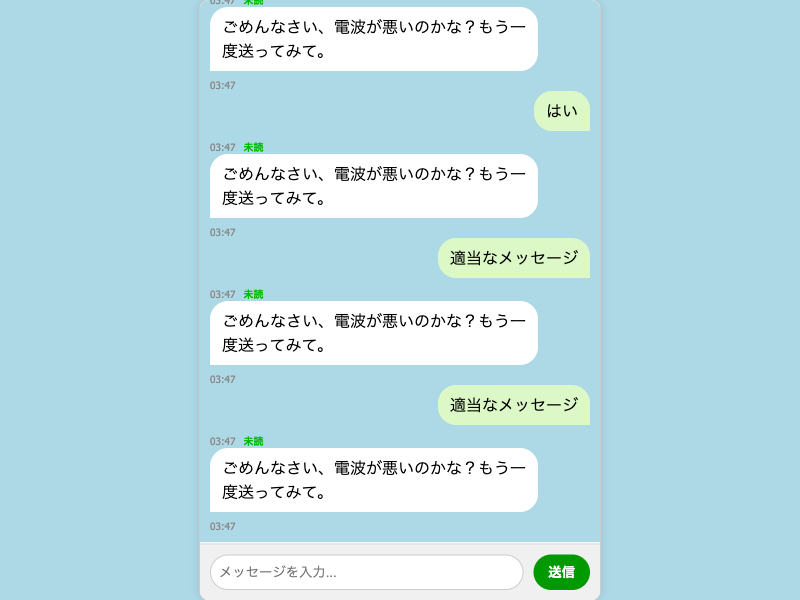
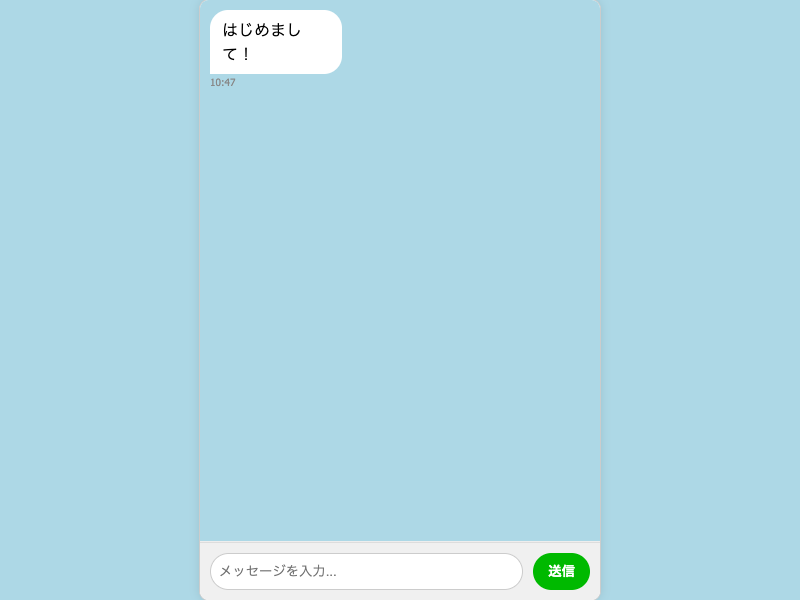
feat: v1.0 release and documentation

Changed region(s): [[0.25, 0.24, 0.75, 0.99], [0.25, 0.0, 0.6875, 0.15], [0.6562, 0.15, 0.75, 0.24]]

diff --git a/style.css b/style.css
@@ -61,55 +61,58 @@ body {
 
 .message {
     margin-bottom: 8px;
-    display: flex;
-    align-items: flex-end; /* タイムスタンプと既読マークを下に配置 */
+    display: block; /* Remove flex behavior from message */
 }
 
 .user-message {
-    display: flex; /* flexコンテナとして維持 */
-    flex-direction: column; /* 縦方向に並べる */
-    align-items: flex-end; /* 右寄せ */
-    margin-left: auto; /* 親要素内で右寄せ */
-}
-
-.user-message span {
-    background-color: #DCF8C6; /* LINEの自分の吹き出し色 */
-    padding: 8px 12px;
-    border-radius: 18px 18px 0 18px; /* 吹き出しの形をより丸く */
-    word-wrap: break-word;
-    max-width: 80%; /* 吹き出しの最大幅 */
+    text-align: right; /* Align the whole message block to the right */
 }
 
 .girl-message {
-    display: flex; /* flexコンテナとして維持 */
-    flex-direction: column; /* 縦方向に並べる */
-    align-items: flex-start; /* 左寄せ */
-    margin-right: auto; /* 親要素内で左寄せ */
+    text-align: left; /* Align the whole message block to the left */
 }
 
-.girl-message span {
-    background-color: #fff; /* LINEの相手の吹き出し色 */
+.message-content-wrapper {
+    display: inline-flex;
+    flex-direction: column;
+}
+
+.user-message .message-content-wrapper {
+    align-self: flex-end; /* Align to the right within .message */
+}
+
+.girl-message .message-content-wrapper {
+    align-self: flex-start; /* Align to the left within .message */
+}
+
+.message-bubble {
     padding: 8px 12px;
-    border-radius: 18px 18px 18px 0; /* 吹き出しの形をより丸く */
     word-wrap: break-word;
-    max-width: 80%; /* 吹き出しの最大幅 */
+    max-width: 80%;
+}
+
+.user-message .message-bubble {
+    background-color: #DCF8C6; /* LINEの自分の吹き出し色 */
+    border-radius: 18px 18px 0 18px; /* 吹き出しの形をより丸く */
+}
+
+.girl-message .message-bubble {
+    background-color: #fff; /* LINEの相手の吹き出し色 */
+    border-radius: 18px 18px 18px 0; /* 吹き出しの形をより丸く */
 }
 
 .message-info {
-    font-size: 0.6em; /* さらに小さく */
+    font-size: 0.6em;
     color: #888;
-    margin-top: 2px; /* 吹き出しとの間隔 */
-    /* margin-right: 12px; */ /* 吹き出しの右端に合わせる */
-    white-space: nowrap; /* 折り返しを防ぐ */
+    white-space: nowrap;
+    display: flex;
+    margin-top: 2px; /* Space between bubble and info */
 }
 
 .user-message .message-info {
-    order: unset; /* orderをリセット */
-    margin-right: 12px; /* 吹き出しの右端に合わせる */
+    justify-content: flex-end; /* Align content to the right */
 }
 
-.read-status {
-    font-weight: bold;
-    color: #00b900; /* 既読マークの色 */
-    margin-left: 5px;
+.girl-message .message-info {
+    justify-content: flex-start; /* Align content to the left */
 }

diff --git a/test.js b/test.js
@@ -10,36 +10,61 @@ const path = require('path');
     });
     const page = await browser.newPage();
 
-    await page.goto(`http://localhost:8080/`);
+    await page.goto(`http://localhost:8080/`, { waitUntil: 'networkidle0' }); // ネットワークアイドルまで待機
 
-    // 初期メッセージが表示されるのを待つ
-    await new Promise(resolve => setTimeout(resolve, 1000));
+    // ページが完全にロードされ、入力フィールドが表示されるのを待つ
+    await page.waitForSelector('#user-input', { visible: true, timeout: 30000 });
 
     const messagesToSend = [
         'はじめまして！',
         '可愛いね！',
-        '趣味は何？'
+        '趣味は何？',
+        '今度ご飯行かない？',
+        'タイプだよ',
+        '元気？',
+        '愛してる',
+        'はい',
+        '適当なメッセージ',
+        '適当なメッセージ'
     ];
 
     for (const msg of messagesToSend) {
         // メッセージを入力
-        await page.type('#user-input', msg);
+        const inputElement = await page.$('#user-input');
+        if (inputElement) {
+            await inputElement.type(msg);
+        } else {
+            console.error('#user-input element not found.');
+            break;
+        }
 
         // 送信ボタンをクリック
-        await page.click('#send-button');
+        const sendButton = await page.$('#send-button');
+        if (sendButton) {
+            await sendButton.click();
+        } else {
+            console.error('#send-button element not found.');
+            break;
+        }
 
         // LLMからの応答と好感度の変化を待つため、長めに待機
-        await new Promise(resolve => setTimeout(resolve, 3000));
+        await new Promise(resolve => setTimeout(resolve, 5000)); // 5秒に延長
 
         // 次の入力までの間隔
         await new Promise(resolve => setTimeout(resolve, 1000));
     }
 
+    // ゲーム終了のalertが表示されるのを待って閉じる
+    page.on('dialog', async dialog => {
+        console.log(`Alert message: ${dialog.message()}`);
+        await dialog.accept();
+    });
+
     // すべての操作が完了した後にスクリーンショットを撮る
-    await page.screenshot({ path: 'screenshot_timestamp_readstatus.png' });
+    await page.screenshot({ path: 'screenshot_final_demo.png' });
 
     // ブラウザを閉じる
     await browser.close();
 
-    console.log('デモンストレーションが完了し、screenshot_timestamp_readstatus.png に結果を保存しました。');
+    console.log('デモンストレーションが完了し、screenshot_final_demo.png に結果を保存しました。');
 })();

diff --git a/script.js b/script.js
@@ -27,11 +27,15 @@ function addMessage(message, sender) {
     const time = getCurrentTime();
     let messageHtml = `
         <div class="message ${sender}-message">
-            <span>${message}</span>
-        </div>
-        <div class="message-info">
-            <span class="timestamp">${time}</span>
-            ${sender === 'user' ? '<span class="read-status">未読</span>' : ''}
+            <div class="message-content-wrapper">
+                <div class="message-bubble">
+                    <span>${message}</span>
+                </div>
+                <div class="message-meta message-info">
+                    <span class="timestamp">${time}</span>
+                    ${sender === 'user' ? '<span class="read-status">未読</span>' : ''}
+                </div>
+            </div>
         </div>
     `;
 
@@ -68,7 +72,7 @@ function handleUserInput() {
             addMessage(girlMessage, 'girl'); // ここを'girl'に変更
 
             // 直前のユーザーメッセージに既読マークを付ける
-            const lastUserMessageInfo = chatLog.querySelector('.user-message:last-child .message-info .read-status');
+            const lastUserMessageInfo = chatLog.querySelector('.user-message .message-meta .read-status');
             if (lastUserMessageInfo) {
                 lastUserMessageInfo.innerText = '既読';
             }

diff --git a/take_screenshot.js b/take_screenshot.js
@@ -1,0 +1,21 @@
+const puppeteer = require('puppeteer');
+
+(async () => {
+    const browser = await puppeteer.launch({
+        executablePath: '/Applications/Google Chrome.app/Contents/MacOS/Google Chrome',
+        headless: true, // ヘッドレスモードで実行
+        args: ['--no-sandbox', '--disable-setuid-sandbox']
+    });
+    const page = await browser.newPage();
+
+    await page.goto(`http://localhost:8080/`, { waitUntil: 'networkidle0' });
+
+    // ページが完全にロードされるのを待つ
+    await new Promise(resolve => setTimeout(resolve, 2000));
+
+    await page.screenshot({ path: 'screenshot_final_demo.png' });
+
+    await browser.close();
+
+    console.log('スクリーンショットを撮影しました: screenshot_final_demo.png');
+})();

diff --git a/docs/v1.0_spec.md b/docs/v1.0_spec.md
@@ -1,0 +1,64 @@
+# v1.0 仕様書
+
+## 1. 概要
+
+本ドキュメントは、LINE風チャット恋愛シミュレーションゲーム「LINEで彼女を落とせ！」のv1.0における機能、デザイン、および技術的な側面を定義するものです。
+
+## 2. 機能一覧
+
+### 2.1. コア機能
+
+*   **LINE風チャットUI**: メッセージの吹き出し（ユーザー側は右、AI側は左）、背景色、入力欄、送信ボタンなど、LINEの基本的なチャット画面を模倣。
+*   **AIキャラクターとの会話**: Google Gemini APIを利用し、ユーザーの入力メッセージに対してAIキャラクターが応答を生成。
+*   **好感度システム**: AIの返答内容に含まれる特定のキーワード（例: 「ありがとう」「ごめん」など）に基づいて、AIキャラクターの好感度（0〜9の範囲）が変動。
+*   **会話回数制限**: 会話が10回に達するとゲームが終了。
+*   **ゲームクリア/オーバー判定**: 会話終了時の好感度に応じて、ゲームのクリア（好感度7以上）またはオーバー（好感度2以下）を判定し、結果をアラートで表示。
+*   **メッセージのタイムスタンプ表示**: 各メッセージの送信時刻を「HH:MM」形式で表示。
+*   **ユーザーメッセージの既読マーク表示**: ユーザーが送信したメッセージに対して、AIからの返信があった場合に「既読」マークを表示。
+
+### 2.2. その他の機能
+
+*   **初期メッセージ**: ゲーム開始時にAIキャラクターからの初期メッセージを表示。
+*   **入力フィールドの自動フォーカス**: メッセージ送信後、入力フィールドに自動的にフォーカスが戻る。
+*   **エラーハンドリング**: AIからの応答取得に失敗した場合、ユーザーにエラーメッセージを表示。
+
+## 3. デザイン
+
+*   **全体**: LINEアプリのチャット画面を参考に、シンプルで直感的なUIを目指す。
+*   **配色**: 緑を基調としたLINEのブランドカラーを意識した配色。
+*   **吹き出し**: ユーザーメッセージは緑色の角丸、AIメッセージは白色の角丸。
+*   **フォント**: 可読性の高いシステムフォントを使用。
+
+## 4. 技術スタック
+
+*   **フロントエンド**: HTML, CSS, JavaScript
+*   **バックエンド**: Node.js (Express.js)
+*   **AI**: Google Gemini API
+*   **開発ツール**: live-server, Puppeteer (自動テスト用)
+
+## 5. 既知の問題点と今後の課題
+
+### 5.1. 既知の問題点
+
+*   **会話履歴のLLMへの引き継ぎ**: 現在、LLMへのリクエストはユーザーの最新メッセージのみ。過去の会話履歴が考慮されないため、文脈を理解した自然な会話が難しい場合がある。
+*   **好感度変化ロジックの単純さ**: LLMからの返答内容に含まれる特定のキーワードのみで好感度を変化させているため、より複雑な感情や文脈を理解した好感度変化ができていない。
+*   **メッセージの長さのバリエーション不足**: LLMからの返信が、常に同じような長さになりがちで、会話の自然さに欠ける場合がある。
+*   **タイムスタンプと既読マークの位置調整**: ユーザーメッセージのタイムスタンプと既読マークが、吹き出しの下に、かつ右寄せで表示されるべきだが、現状では左端に表示される。
+
+### 5.2. 今後の課題（優先度順）
+
+1.  **会話履歴のLLMへの引き継ぎ**: LLMが過去の会話を記憶し、より連続性のある返答を生成できるようにする。
+    *   `script.js`で会話履歴を管理し、バックエンドに送信する。
+    *   `server/index.js`で会話履歴を受け取り、LLMに渡す。
+2.  **好感度変化ロジックの洗練**: より複雑な感情や文脈を理解して好感度を変化させる。LLMの返答から好感度への影響度を判断できるようにする。
+    *   LLMに好感度変化のトリガーとなるキーワードや感情を明示的に出力させるプロンプト調整。
+    *   返答の感情分析を行う（より高度な課題）。
+3.  **メッセージの長さの変化**: LLMからの返信が、時には短く、時には長く、複数の文で返答するように調整する。
+    *   バックエンドのLLMプロンプトに、返答の長さにバリエーションを持たせる指示を追加。
+    *   `maxOutputTokens`の調整。
+4.  **タイムスタンプと既読マークの位置調整**: LINEのUIに近づけるため、タイムスタンプと既読マークをユーザーメッセージの吹き出しの右下に配置する。
+    *   `style.css`のFlexboxプロパティを再調整し、要素の配置を修正する。
+5.  **ゲームクリア/オーバー条件の調整**: 特定の会話内容やユーザーの行動がゲーム結果に影響するようにする。
+    *   特定のキーワードや会話の進捗に応じて、好感度への影響を大きくする。
+6.  **キャラクター設定の強化**: より詳細な設定（年齢、職業、趣味、口癖など）を追加し、より魅力的で一貫性のあるAIキャラクターにする。
+    *   `docs/character_settings.md`に詳細な設定を記述し、LLMプロンプトに反映させる。
